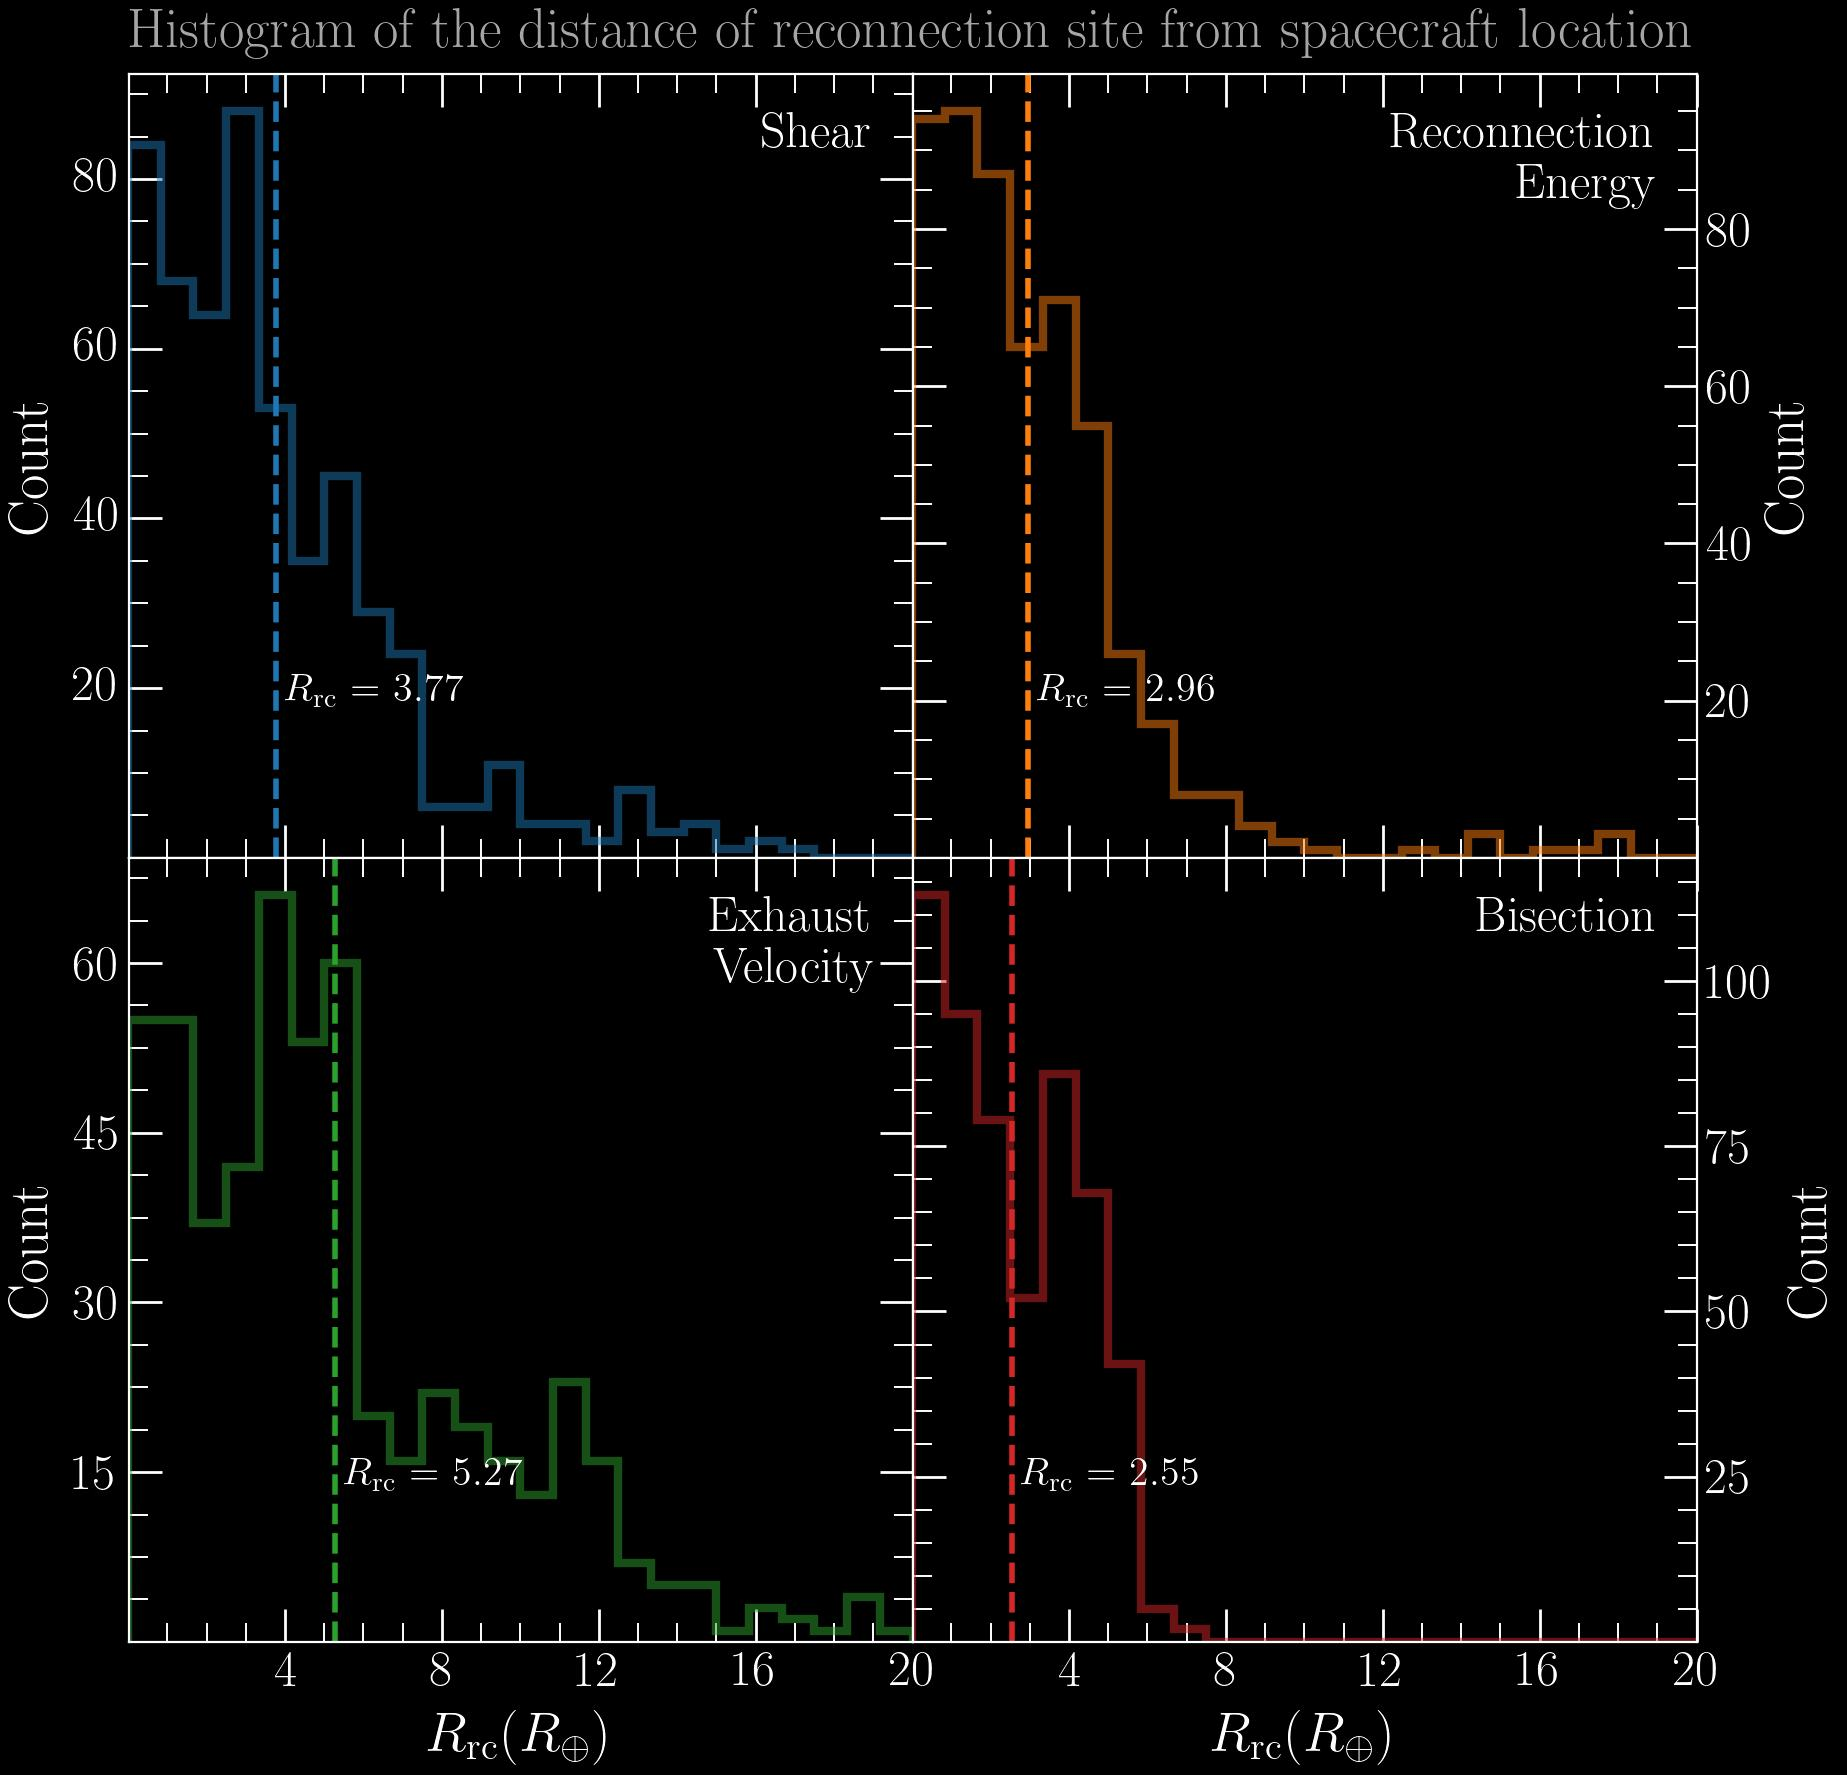
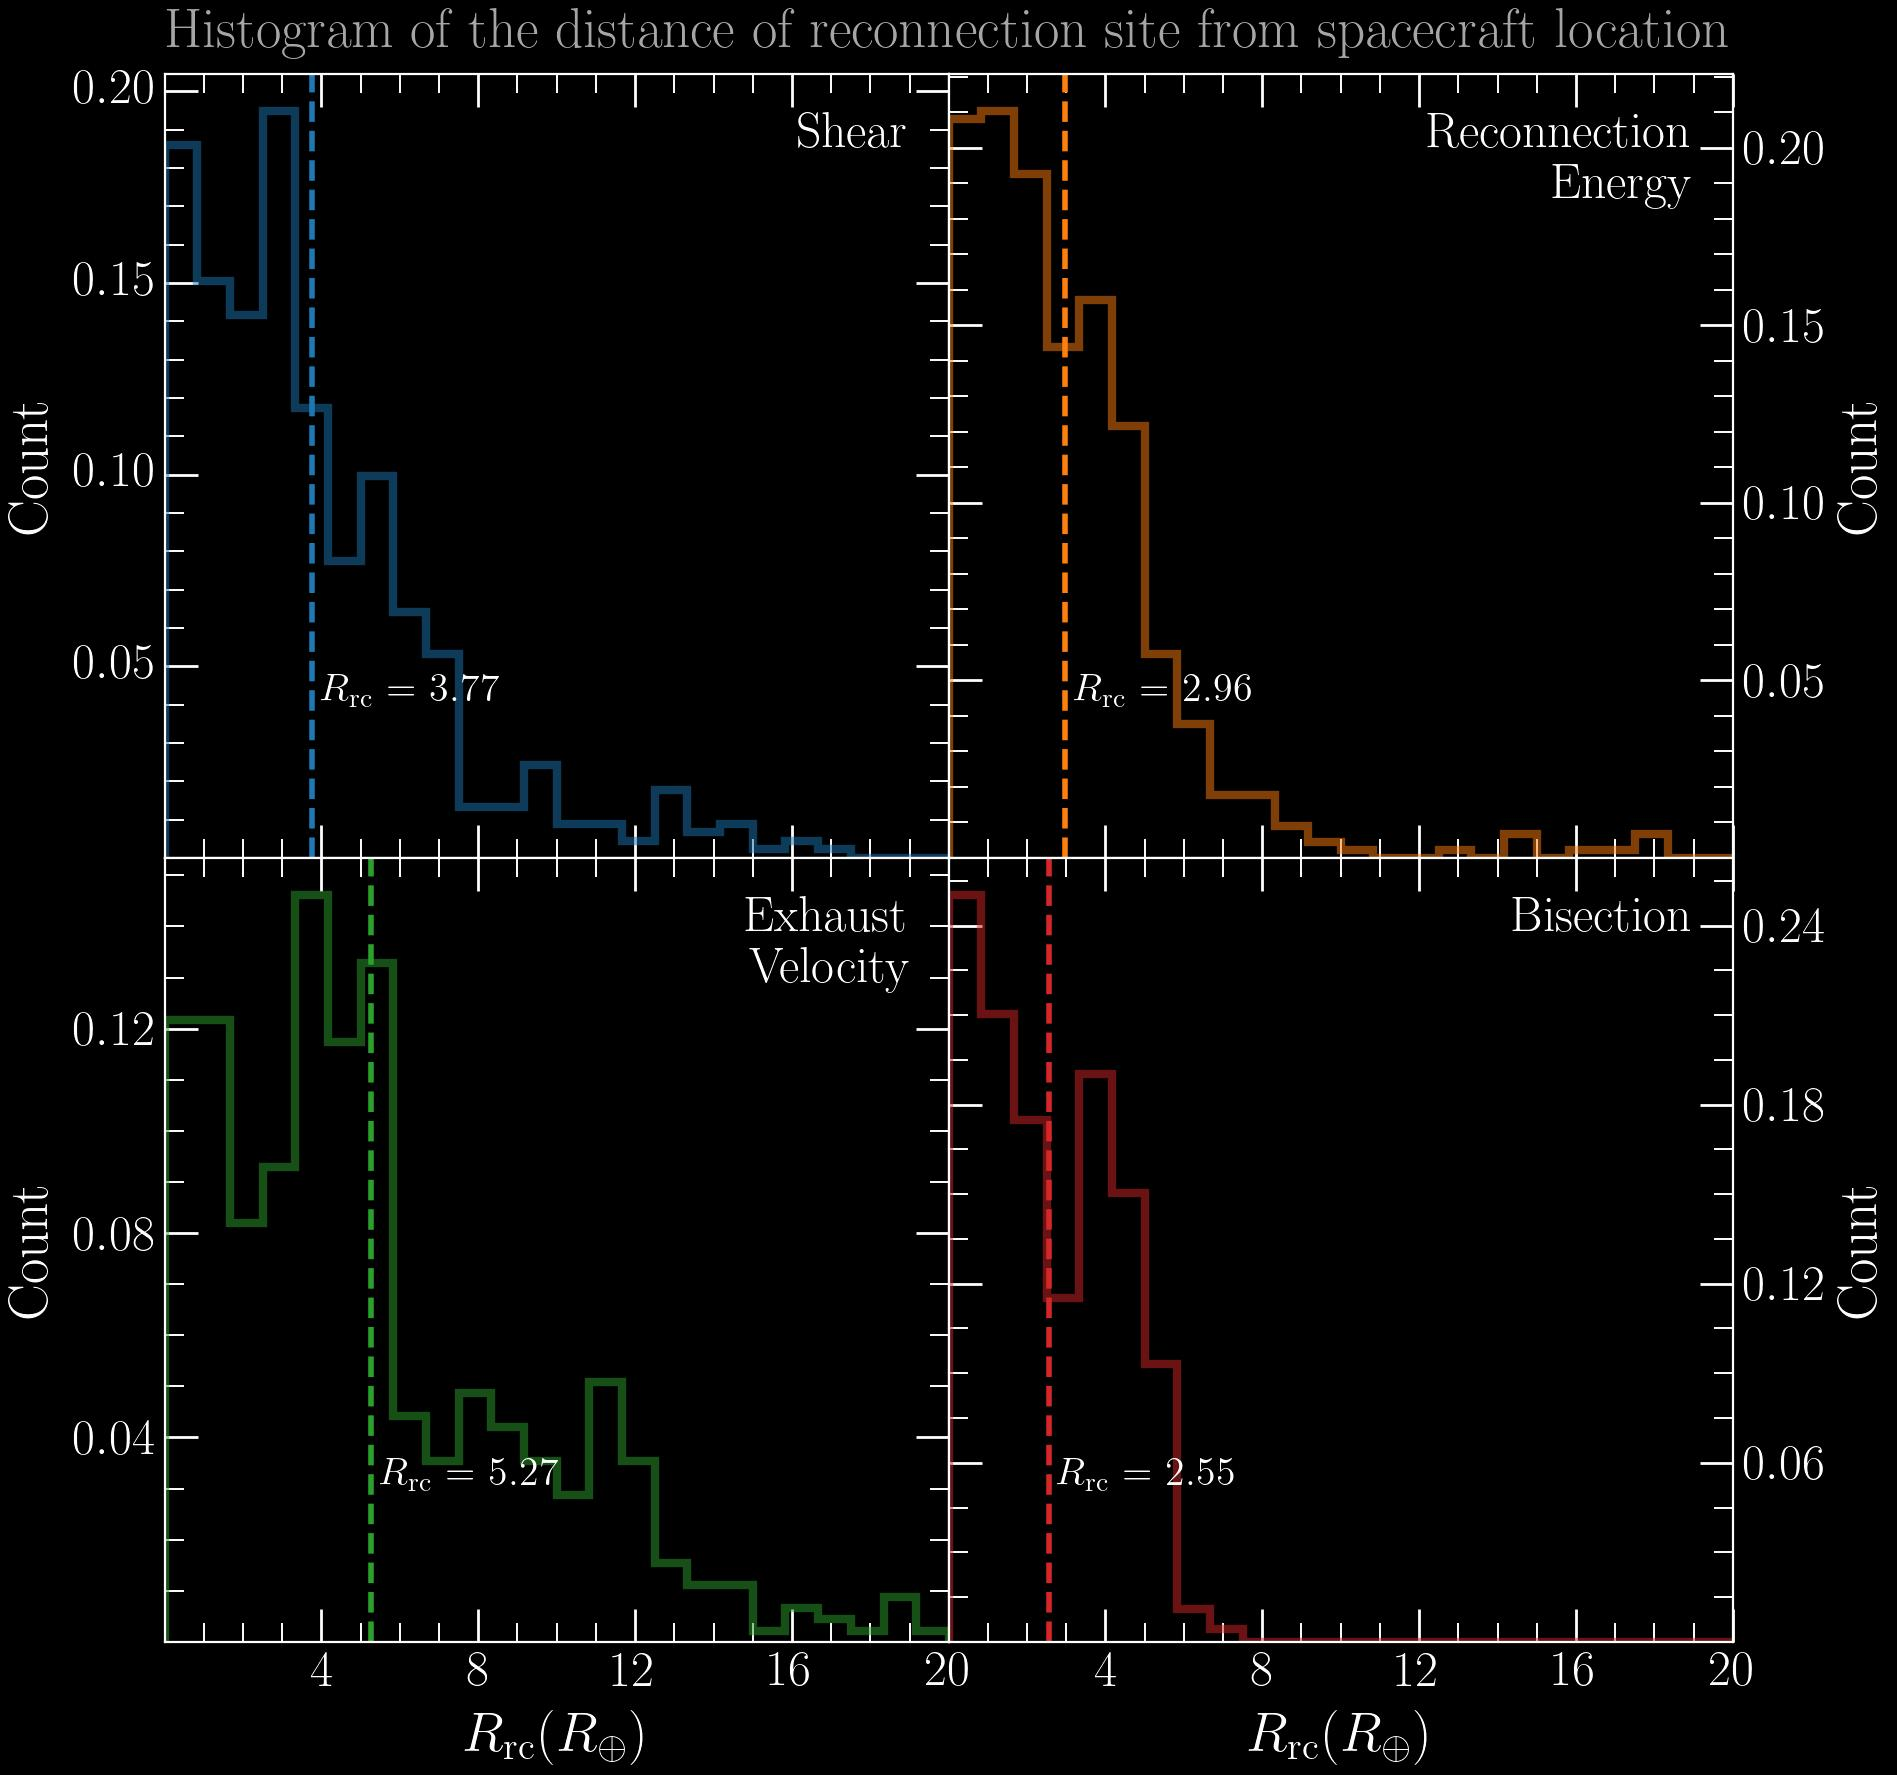
modified:   rc_stats.py 	modified:   rc_stats_fncs.py 	new file:   ../figures/rx_hist/rx_hist_v14/rx_hist_20221109_bz.jpg 	new file:   ../figures/rx_hist/rx_hist_v14/rx_hist_20221109_bz_neg.jpg 	new file:   ../figures/rx_hist/rx_hist_v14/rx_hist_20221109_bz_pos.jpg 	new file:   ../figures/rx_hist/rx

diff --git a/codes/rc_stats_fncs.py b/codes/rc_stats_fncs.py
@@ -4,6 +4,7 @@ import os
 import pandas as pd
 import matplotlib.pyplot as plt
 import matplotlib.gridspec as gridspec
+import numpy as np
 
 from matplotlib.pyplot import MaxNLocator
 import rx_model_funcs as rmf
@@ -31,16 +32,41 @@ def plot_hist(file_name, fig_size=(6, 6), dark_mode=True, bins=8, fig_folder="..
 
     df = pd.read_csv(file_name, index_col=False)
 
+    # Set date_from as index
+    df = df.set_index("date_from")
+
     df_shear = df[df.method_used == "shear"]
     df_rx_en = df[df.method_used == "rx_en"]
     df_va_cs = df[df.method_used == "va_cs"]
     df_bisec = df[df.method_used == "bisection"]
+
+    cone_angle_shear = np.arccos(df_shear.b_imf_x / np.sqrt(
+                       df_shear.b_imf_x**2 +df_shear.b_imf_y**2+ df_shear.b_imf_z**2)) * 180 / np.pi
+    cone_angle_rx_en = np.arccos(df_rx_en.b_imf_x / np.sqrt(
+                          df_rx_en.b_imf_x**2 +df_rx_en.b_imf_y**2+ df_rx_en.b_imf_z**2)) * 180 / np.pi
+    cone_angle_va_cs = np.arccos(df_va_cs.b_imf_x / np.sqrt(
+                            df_va_cs.b_imf_x**2 +df_va_cs.b_imf_y**2+ df_va_cs.b_imf_z**2)) * 180 / np.pi
+    cone_angle_bisec = np.arccos(df_bisec.b_imf_x / np.sqrt(
+                            df_bisec.b_imf_x**2 +df_bisec.b_imf_y**2+ df_bisec.b_imf_z**2)) * 180 / np.pi
+
+    df_shear["cone_angle"] = cone_angle_shear
+    df_rx_en["cone_angle"] = cone_angle_rx_en
+    df_va_cs["cone_angle"] = cone_angle_va_cs
+    df_bisec["cone_angle"] = cone_angle_bisec
+
+
+    # Select data where cone angle is between 0 and 90 degrees
+    df_shear = df_shear[(df_shear.cone_angle >= 30) & (df_shear.cone_angle <= 90)]
+    df_rx_en = df_rx_en[(df_rx_en.cone_angle >= 30) & (df_rx_en.cone_angle <= 90)]
+    df_va_cs = df_va_cs[(df_va_cs.cone_angle >= 30) & (df_va_cs.cone_angle <= 90)]
+    df_bisec = df_bisec[(df_bisec.cone_angle >= 30) & (df_bisec.cone_angle <= 90)]
 
     if cut_type == "bz_neg":
         df_shear = df_shear[df_shear["b_imf_z"] < 0]
         df_rx_en = df_rx_en[df_rx_en["b_imf_z"] < 0]
         df_va_cs = df_va_cs[df_va_cs["b_imf_z"] < 0]
         df_bisec = df_bisec[df_bisec["b_imf_z"] < 0]
+
     if cut_type == "bz_pos":
         df_shear = df_shear[df_shear["b_imf_z"] > 0]
         df_rx_en = df_rx_en[df_rx_en["b_imf_z"] > 0]
@@ -137,6 +163,10 @@ def plot_hist(file_name, fig_size=(6, 6), dark_mode=True, bins=8, fig_folder="..
 
     plt.close("all")
 
+    if density==True:
+        y_label = "Density"
+    else:
+        y_label = "Counts"
     fig = plt.figure(num=None, figsize=fig_size, dpi=200, facecolor='k', edgecolor='w')
     fig.subplots_adjust(left=0.01, right=0.99, top=0.99, bottom=0.01, wspace=0., hspace=0.)
     gs = gridspec.GridSpec(2, 2, width_ratios=[1, 1])
@@ -154,7 +184,7 @@ def plot_hist(file_name, fig_size=(6, 6), dark_mode=True, bins=8, fig_folder="..
     axs1.set_xlim(r_lim[0], r_lim[1])
     axs1.set_xscale('linear')
     # axs1.set_xlabel(r'$r_{rc}$', fontsize=label_size, color=label_color, labelpad=label_pad)
-    axs1.set_ylabel('Count', fontsize=label_size, color=label_color, labelpad=label_pad)
+    axs1.set_ylabel(y_label, fontsize=label_size, color=label_color, labelpad=label_pad)
 
     # Plot the histogram of the rx_en data
     axs2 = plt.subplot(gs[0, 1])
@@ -168,7 +198,7 @@ def plot_hist(file_name, fig_size=(6, 6), dark_mode=True, bins=8, fig_folder="..
     axs2.set_xlim(r_lim[0], r_lim[1])
     axs2.set_xscale('linear')
     # axs2.set_xlabel(r'$r_{rc}$', fontsize=label_size, color=label_color, labelpad=label_pad)
-    axs2.set_ylabel('Count', fontsize=label_size, color=label_color, labelpad=label_pad)
+    axs2.set_ylabel(y_label, fontsize=label_size, color=label_color, labelpad=label_pad)
     axs2.yaxis.set_label_position("right")
 
     # Plot the histogram of the va_cs data
@@ -184,7 +214,7 @@ def plot_hist(file_name, fig_size=(6, 6), dark_mode=True, bins=8, fig_folder="..
     axs3.set_xscale('linear')
     axs3.set_xlabel(r'$R_{\rm {rc}} (R_\oplus)$', fontsize=label_size, color=label_color,
                     labelpad=label_pad)
-    axs3.set_ylabel('Count', fontsize=label_size, color=label_color, labelpad=label_pad)
+    axs3.set_ylabel(y_label, fontsize=label_size, color=label_color, labelpad=label_pad)
 
     # Plot the histogram of the bisection data
     axs4 = plt.subplot(gs[1, 1])
@@ -199,7 +229,7 @@ def plot_hist(file_name, fig_size=(6, 6), dark_mode=True, bins=8, fig_folder="..
     axs4.set_xscale('linear')
     axs4.set_xlabel(r'$R_{\rm {rc}} (R_\oplus)$', fontsize=label_size, color=label_color,
                     labelpad=label_pad)
-    axs4.set_ylabel('Count', fontsize=label_size, color=label_color, labelpad=label_pad)
+    axs4.set_ylabel(y_label, fontsize=label_size, color=label_color, labelpad=label_pad)
     axs4.yaxis.set_label_position("right")
 
     # Set the tick parameters

diff --git a/codes/rc_stats.py b/codes/rc_stats.py
@@ -6,7 +6,7 @@ import rc_stats_fncs as rcsf
 importlib.reload(rcsf)
 
 data_folder = '../data/rx_d'
-fnames = np.sort(glob.glob(f"{data_folder}/reconnection_line_data_mms3_20221116.csv"))
+fnames = np.sort(glob.glob(f"{data_folder}/reconnection_line_data_mms3_20221109.csv"))
 # cut_type_list = ["jet", "walen1", "walen2", "walen_jet"]
 cut_type_list = ["bz_neg", "bz_pos", 'bz']
 for file_name in fnames:
@@ -25,7 +25,7 @@ for file_name in fnames:
             'linewidth': 3,
             'cut_type': cut_type,
             'r_lim': [0.01, 20],
-            'density': False,
+            'density': True,
         }
 
         df_shear, df_rx_en, df_va_cs, df_bisec = rcsf.plot_hist(**fig_inputs)
